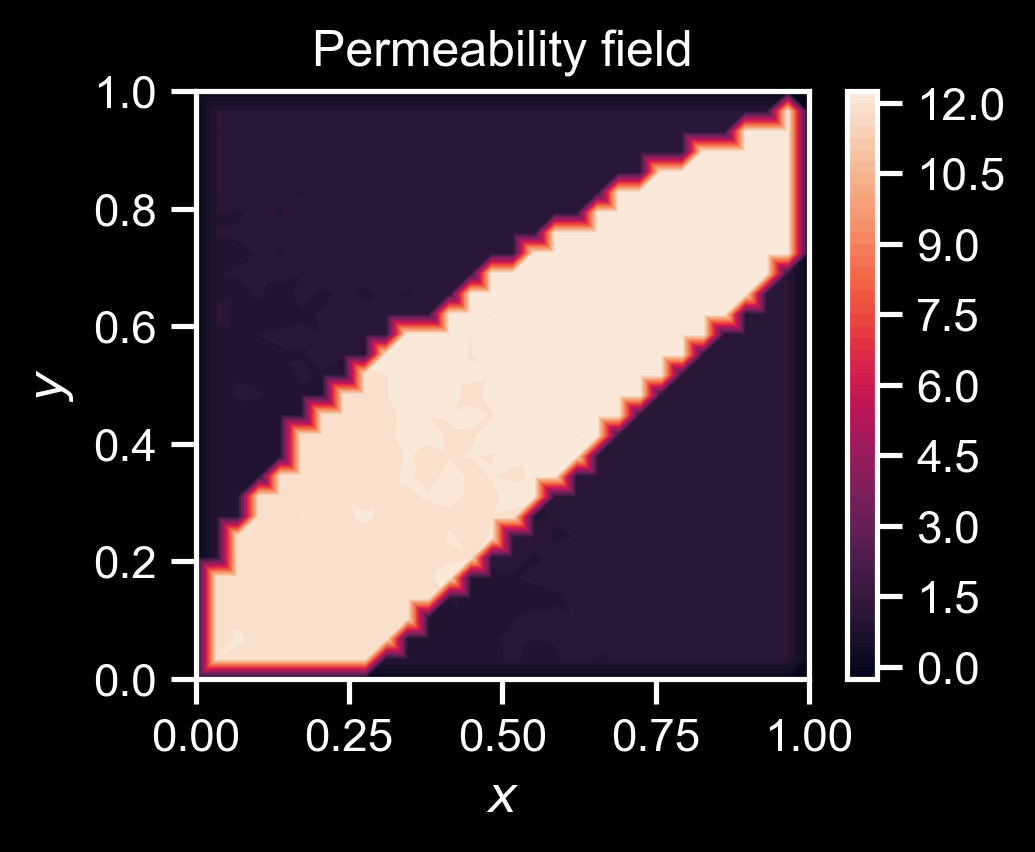
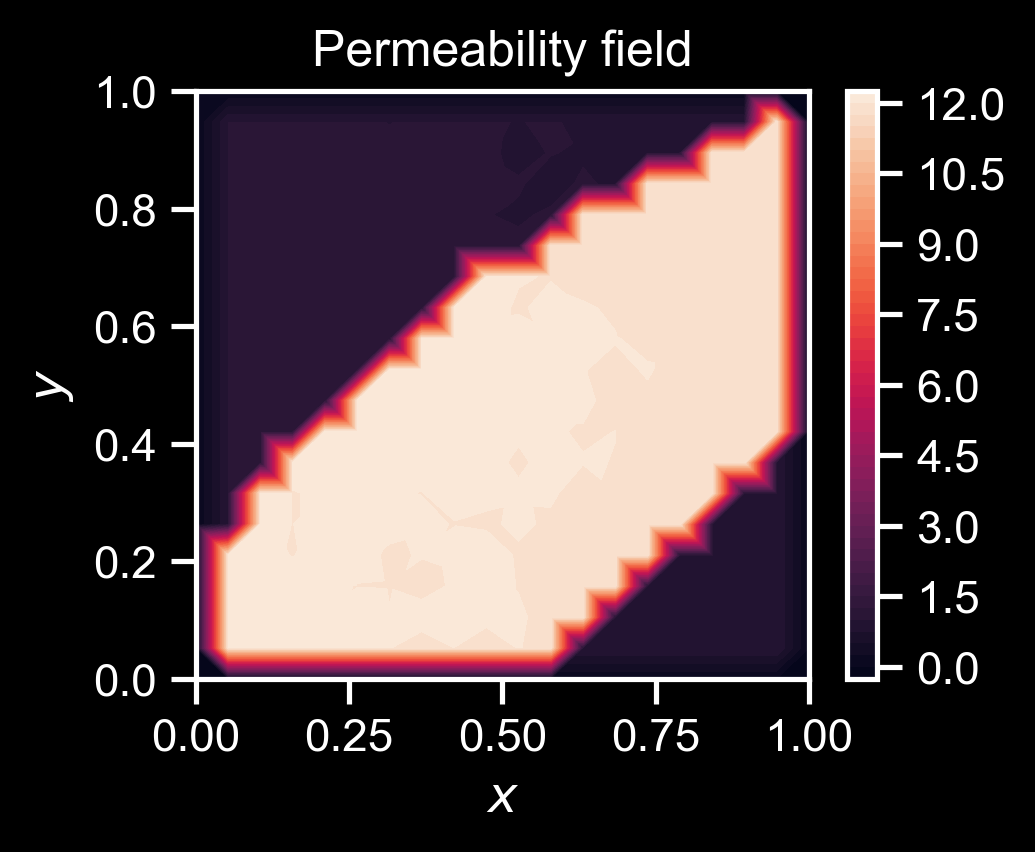
FInding discontinuous RBFs for Darcy flow

Changed region(s): [[0.1855, 0.0915, 0.8039, 0.7934]]

diff --git a/demos/Darcy/00_darcy_flow.py b/demos/Darcy/00_darcy_flow.py
@@ -22,11 +22,13 @@ key = None
 DATAFOLDER = "./data/"
 make_dir(DATAFOLDER)
 
-RBF = partial(polyharmonic, a=1)
-MAX_DEGREE = 1
+RBF1 = partial(polyharmonic, a=2)
 
-Nx = 30
-Ny = 30
+RBF2 = partial(thin_plate, a=3)
+MAX_DEGREE = 2
+
+Nx = 20
+Ny = 20
 SUPPORT_SIZE = "max"
 
 # %%
@@ -49,7 +51,7 @@ cloud_perm = SquareCloud(Nx=Nx, Ny=Ny, facet_types=facet_types_perm, noise_key=k
 
 def perm_func(x, y):
     tmp = jnp.where(y**2>=x, 0.1, 1.20)
-    tmp = jnp.where(0.25+y**1>=x, tmp, 0.1)
+    tmp = jnp.where(0.55+y**1>=x, tmp, 0.1)
     return 10*jnp.abs(tmp)
     # tmp = jnp.where(x<=0.75, tmp, 0.2)
     # return jnp.where(y**2<=x, tmp, 0.90)
@@ -61,7 +63,7 @@ perm_field = pde_solver_jit(diff_operator=perm_diff_operator,
                     rhs_args=[permeability],
                     cloud=cloud_perm,
                     boundary_conditions=bc_perm, 
-                    rbf=RBF,
+                    rbf=RBF1,
                     max_degree=MAX_DEGREE,)
 
 
@@ -102,7 +104,7 @@ ufield = pde_solver_jit(diff_operator=my_diff_operator,
                     rhs_args=[perm_field.vals],
                     cloud=cloud,
                     boundary_conditions = boundary_conditions, 
-                    rbf=RBF,
+                    rbf=RBF2,
                     max_degree=MAX_DEGREE,)
 
 walltime = time.time() - start
@@ -112,7 +114,7 @@ seconds = walltime % 60
 print(f"Walltime: {minutes} minutes {seconds:.2f} seconds")
 
 fig, ax2 = plt.subplots(1, 1, figsize=(3.65, 3))
-cloud.visualize_field(ufield.vals, cmap="jet", title=f"Solution field", ax=ax2, levels=200);
+cloud.visualize_field(ufield.vals, cmap="nipy_spectral", title=f"Solution field", ax=ax2, levels=500);
 # plt.show()
 
 plt.draw()
